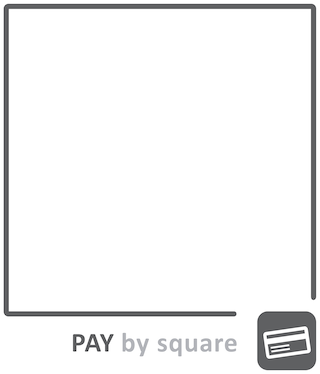
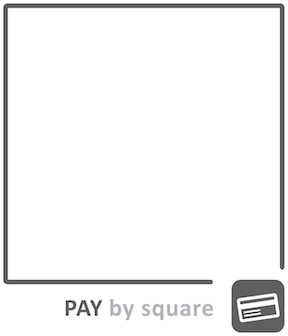
fixed quiet area in the framed code

diff --git a/README.md b/README.md
@@ -13,7 +13,7 @@ In `build.sbt`, add the JitPack resolver and the [latest library dependency](htt
 
 ```scala
 resolvers += "jitpack" at "https://jitpack.io"
-libraryDependencies += "sk.softwave" %% "paybysquare4s" % "1.0.1"
+libraryDependencies += "sk.softwave" %% "paybysquare4s" % "1.0.3"
 ```
 
 ## Usage - library
@@ -41,8 +41,8 @@ Plain QR code without frame:
 ```scala
 PayBySquare.encodePlainQR(pay, "/path/to/store/qr-file.png") 
 
-//or with explicit size param (default == 300)
-PayBySquare.encodePlainQR(pay, "/path/to/store/qr-file.png", size = 250) 
+//or with explicit size param (default == 300) or margin param (default == 4)
+PayBySquare.encodePlainQR(pay, "/path/to/store/qr-file.png", size = 250, margin = 4) 
 ```
 
 Plain PayBySquare string (to be used in your own QR generator for example):
